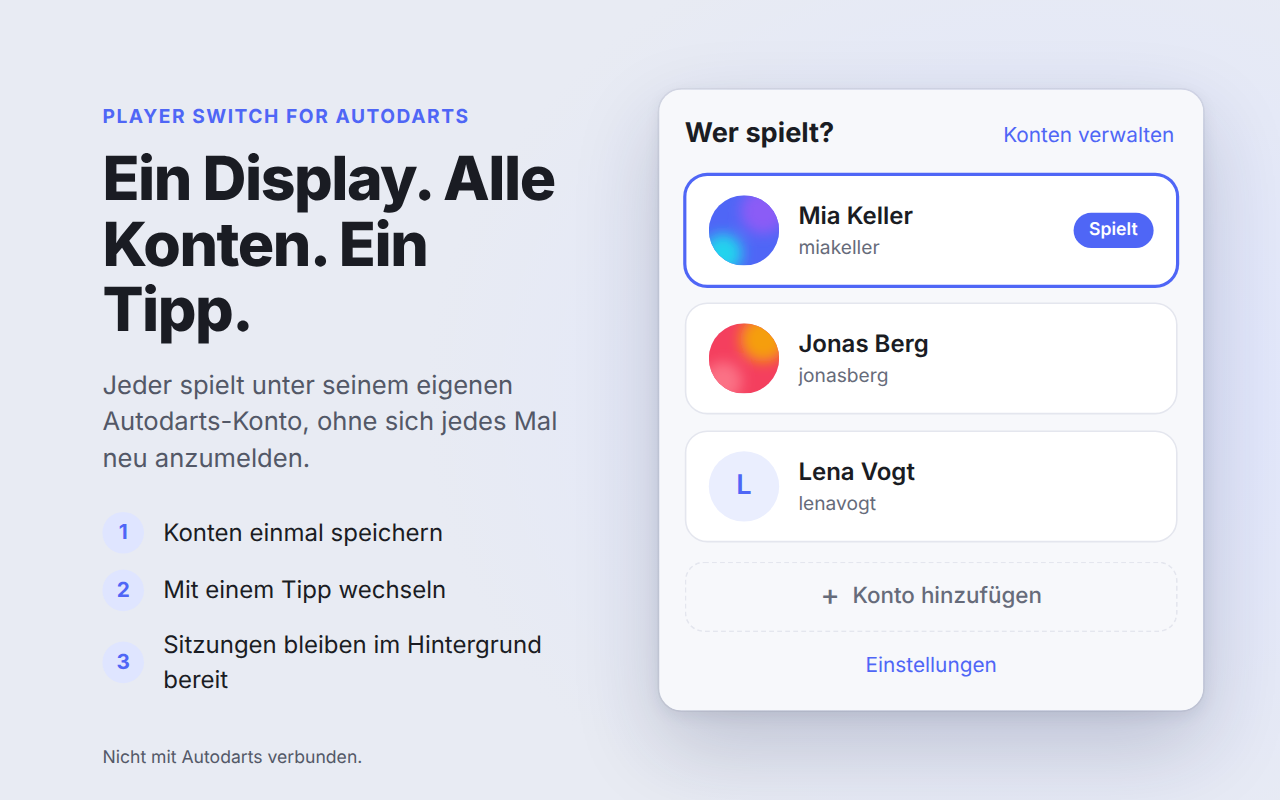
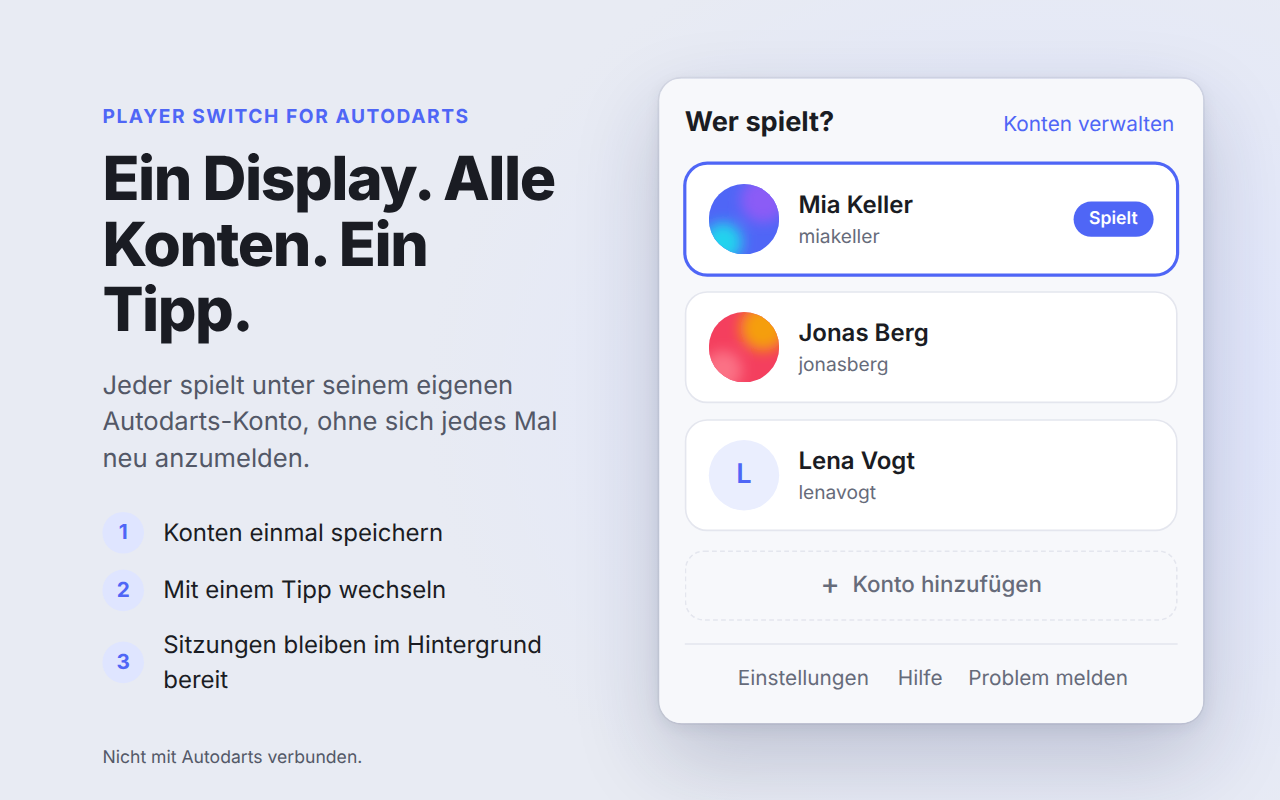
docs: render the pictures of the popup with its new footer
The popup of main now links the help and a bug report through
support.js, which asks Chrome for the manifest, so the stand-in for
Chrome hands out extension/manifest.json too, and the pictures show the
new footer. A picture of an exact size, such as one of the store, now
fails to render when its stage overflows the window, instead of
cutting the popup or the switcher off.

diff --git a/test/harness/chrome-stub.js b/test/harness/chrome-stub.js
@@ -121,20 +121,18 @@
     return { ok: true, view: view() };
   }
 
+  /** A JSON file of the extension, read at once, as Chrome hands out its own. */
+  function extensionFile(path) {
+    const request = new XMLHttpRequest();
+    request.open("GET", chrome.runtime.getURL(path), false);
+    request.send();
+    return request.status === 200 ? JSON.parse(request.responseText) : {};
+  }
+
   // The texts of the extension, read once from its _locales, as Chrome does.
   let messages = null;
   function catalog() {
-    if (messages === null) {
-      const request = new XMLHttpRequest();
-      const extension = new URL("/extension/", location.href);
-      request.open(
-        "GET",
-        new URL(`_locales/${language}/messages.json`, extension),
-        false,
-      );
-      request.send();
-      messages = request.status === 200 ? JSON.parse(request.responseText) : {};
-    }
+    messages ??= extensionFile(`_locales/${language}/messages.json`);
     return messages;
   }
 
@@ -213,6 +211,7 @@
       openOptionsPage: async () => {},
       getURL: (path) =>
         new URL(path, new URL("/extension/", location.href)).href,
+      getManifest: () => extensionFile("manifest.json"),
       onMessage: noListeners,
     },
     storage: {

diff --git a/test/harness/capture.py b/test/harness/capture.py
@@ -27,6 +27,14 @@ ROOT = Path(__file__).resolve().parents[2]
 ORIGIN = "http://harness.test"
 STUB = ROOT / "test" / "harness" / "chrome-stub.js"
 LANGUAGES = ("en", "de")
+# Whether the stage, or a page in one of its frames, is larger than the window.
+OVERFLOWS = """() => [document, ...[...document.querySelectorAll("iframe")].map(
+    (frame) => frame.contentDocument)].some((page) => {
+        const root = page.scrollingElement;
+        const panel = page.querySelector(".panel");
+        return root.scrollHeight > root.clientHeight || root.scrollWidth > root.clientWidth
+            || (panel !== null && panel.scrollHeight > panel.clientHeight);
+    })"""
 
 
 @dataclass(frozen=True)
@@ -148,7 +156,14 @@ def open_stage(
 
 
 def picture(page: Page, fit: bool) -> Image.Image:
-    """The stage as it stands, or its window."""
+    """The stage as it stands, or its window, which must hold all of the stage: a
+    picture of an exact size, such as one of the store, never cuts anything off."""
+    if not fit and page.evaluate(OVERFLOWS):
+        size = page.viewport_size or {}
+        raise SystemExit(
+            f"{page.url} needs more than {size.get('width')}x{size.get('height')}: "
+            "shorten its text in stage.js or give the picture more room in shots()."
+        )
     options = {"animations": "disabled", "caret": "hide", "scale": "device"}
     data = (
         page.locator("#shot").screenshot(**options)
